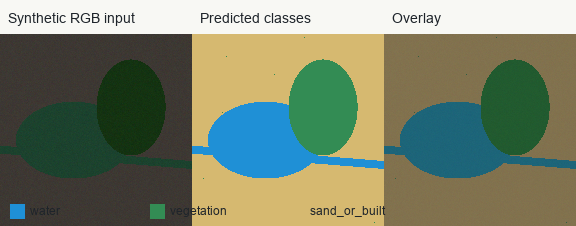
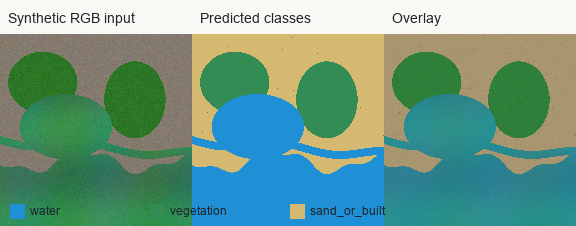
Improve public-safe demo visuals

diff --git a/src/coastal_segformer_demo/synthetic.py b/src/coastal_segformer_demo/synthetic.py
@@ -15,34 +15,39 @@ def make_synthetic_multispectral(width: int, height: int, seed: int) -> Syntheti
     rng = np.random.default_rng(seed)
     yy, xx = np.mgrid[0:height, 0:width]
 
-    water = ((xx - width * 0.38) / (width * 0.30)) ** 2 + ((yy - height * 0.55) / (height * 0.20)) ** 2 < 1.0
-    channel = np.abs(yy - (height * 0.60 + 0.08 * xx)) < 4
-    vegetation = ((xx - width * 0.68) / (width * 0.18)) ** 2 + ((yy - height * 0.38) / (height * 0.25)) ** 2 < 1.0
-    sand = ~(water | channel | vegetation)
+    shoreline = height * 0.66 + 10 * np.sin(xx / 18.0) + 4 * np.cos(xx / 7.0)
+    water = yy > shoreline
+    lagoon = ((xx - width * 0.34) / (width * 0.24)) ** 2 + ((yy - height * 0.48) / (height * 0.17)) ** 2 < 1.0
+    channel = np.abs(yy - (height * 0.55 + 0.075 * xx + 4 * np.sin(xx / 18.0))) < 4
+    water = water | lagoon | channel
+    vegetation = (
+        (((xx - width * 0.70) / (width * 0.16)) ** 2 + ((yy - height * 0.34) / (height * 0.20)) ** 2 < 1.0)
+        | (((xx - width * 0.22) / (width * 0.18)) ** 2 + ((yy - height * 0.25) / (height * 0.16)) ** 2 < 1.0)
+    ) & ~water
+    sand = ~(water | vegetation)
+    texture = 0.012 * np.sin(xx / 8.0) + 0.010 * np.cos(yy / 11.0)
 
-    blue = np.full((height, width), 0.13, dtype="float32")
-    green = np.full((height, width), 0.15, dtype="float32")
-    red = np.full((height, width), 0.16, dtype="float32")
-    nir = np.full((height, width), 0.24, dtype="float32")
+    blue = np.full((height, width), 0.15, dtype="float32") + texture
+    green = np.full((height, width), 0.17, dtype="float32") + texture
+    red = np.full((height, width), 0.18, dtype="float32") + 0.7 * texture
+    nir = np.full((height, width), 0.27, dtype="float32") + 0.5 * texture
 
-    water_like = water | channel
-    blue[water_like] = 0.18
-    green[water_like] = 0.26
-    red[water_like] = 0.11
-    nir[water_like] = 0.04
+    blue[water] = 0.16 + 0.02 * np.sin(xx[water] / 14.0)
+    green[water] = 0.25 + 0.03 * np.cos(yy[water] / 15.0)
+    red[water] = 0.10 + 0.015 * np.sin((xx[water] + yy[water]) / 20.0)
+    nir[water] = 0.035 + 0.012 * np.cos(xx[water] / 13.0)
 
-    blue[vegetation] = 0.07
-    green[vegetation] = 0.20
-    red[vegetation] = 0.08
-    nir[vegetation] = 0.44
+    blue[vegetation] = 0.065 + 0.015 * rng.random(np.count_nonzero(vegetation))
+    green[vegetation] = 0.21 + 0.035 * rng.random(np.count_nonzero(vegetation))
+    red[vegetation] = 0.075 + 0.020 * rng.random(np.count_nonzero(vegetation))
+    nir[vegetation] = 0.43 + 0.050 * rng.random(np.count_nonzero(vegetation))
 
-    blue[sand] = 0.20
-    green[sand] = 0.22
-    red[sand] = 0.24
-    nir[sand] = 0.28
+    blue[sand] = 0.20 + 0.025 * rng.random(np.count_nonzero(sand))
+    green[sand] = 0.22 + 0.030 * rng.random(np.count_nonzero(sand))
+    red[sand] = 0.24 + 0.030 * rng.random(np.count_nonzero(sand))
+    nir[sand] = 0.28 + 0.035 * rng.random(np.count_nonzero(sand))
 
     noise = rng.normal(0, 0.01, size=(4, height, width)).astype("float32")
     bands = np.clip(np.stack([blue, green, red, nir]) + noise, 0, 1).astype("float32")
-    rgb = np.clip(np.stack([bands[2], bands[1], bands[0]], axis=-1) * 255, 0, 255).astype("uint8")
+    rgb = np.clip(np.stack([bands[2], bands[1], bands[0]], axis=-1) * 520, 0, 255).astype("uint8")
     return SyntheticTile(bands=bands, rgb=rgb)
-